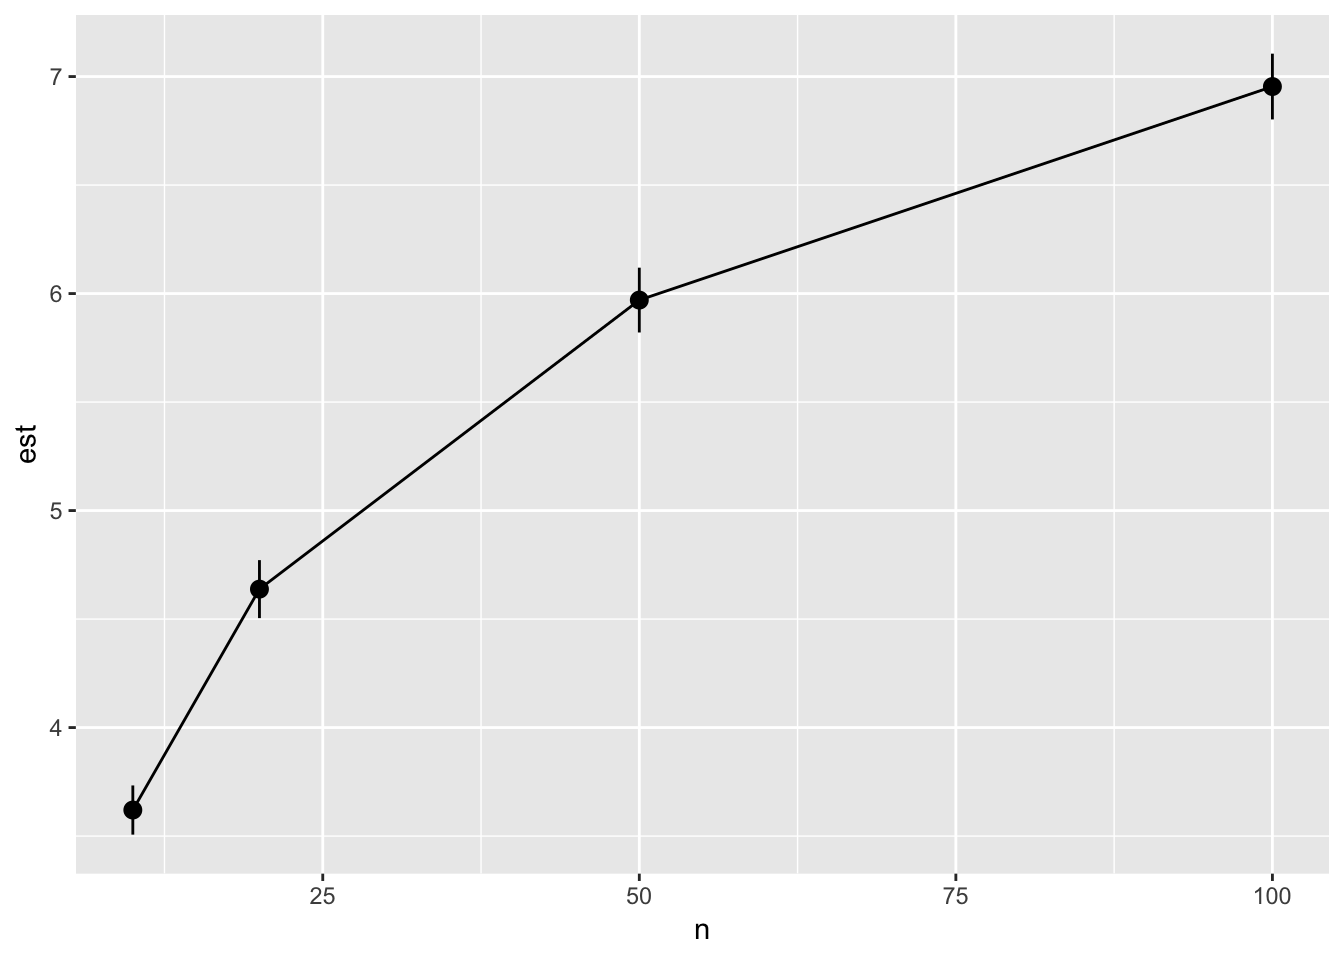
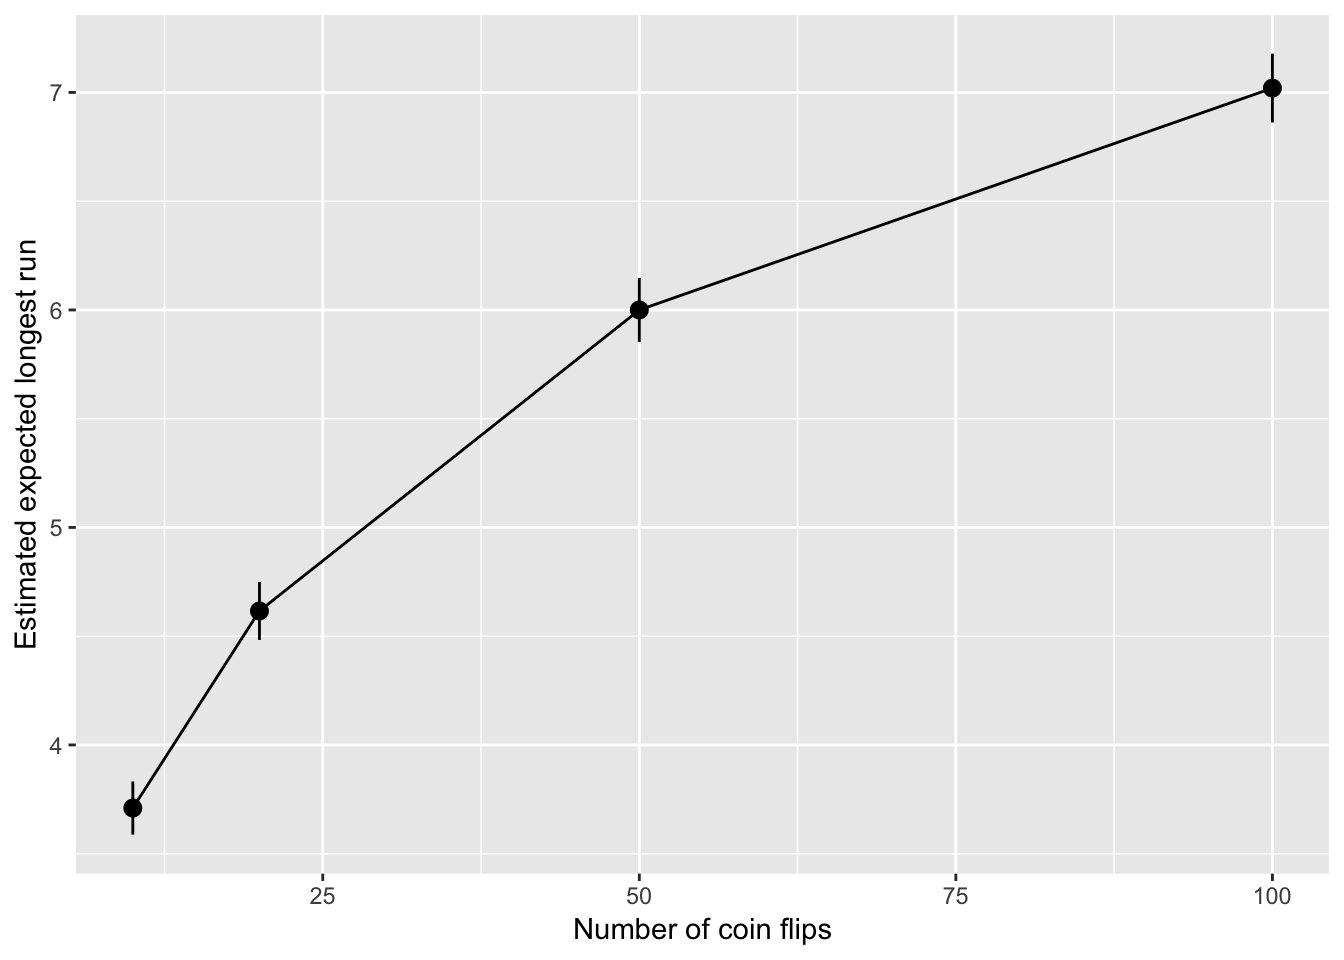
post lecture updates 06

diff --git a/notes/06-more-complicated-sims.html b/notes/06-more-complicated-sims.html
@@ -138,8 +138,9 @@ $(document).ready(function () {
 <li><a href="#our-old-friend-the-coin-toss-sequence">Our old friend the coin toss sequence</a></li>
 <li><a href="#some-variations">Some variations</a></li>
 <li><a href="#how-does-the-expected-length-of-the-longest-run-vary-with-the-number-of-coinflips-n">How does the expected length of the longest run vary with the number of coinflips, <span class="math inline">\(n\)</span>?</a></li>
+<li><a href="#setup">Setup</a></li>
 <li><a href="#one-approach">One approach</a></li>
-<li><a href="#an-aside-on-map">An aside on map()</a></li>
+<li><a href="#an-aside-on-map-back-at-903">An aside on map() back at 9:03</a></li>
 </ul></li>
 <li><a href="#key-ideas">Key ideas</a><ul>
 <li><a href="#storing-a-simulation-in-a-data-frame">Storing a simulation in a data frame</a></li>
@@ -150,6 +151,7 @@ $(document).ready(function () {
 <li><a href="#when-you-need-to-iterate-over-more-than-one-thing-map2-and-pmap">When you need to iterate over more than one thing <code>map2()</code> and <code>pmap()</code></a></li>
 <li><a href="#in-our-situation">In our situation</a></li>
 <li><a href="#more-complicated-simulations">More complicated simulations…</a></li>
+<li><a href="#next-time">Next time</a></li>
 </ul></li>
 </ul>
 </div>
@@ -174,8 +176,9 @@ find_int(n = 1000, values, probs) %&gt;%
   table()</code></pre>
 <p>Ross’s suggestion for efficiency is to order by decreasing probability first, e.g.</p>
 <pre class="r"><code>ind_order &lt;- order(probs, decreasing = TRUE)
-values_ordered &lt;- values[ind_order]
-probs_ordered &lt;- probs[ind_order]
+(values_ordered &lt;- values[ind_order])
+(probs_ordered &lt;- probs[ind_order])
+
 find_int(n = 1000, values_ordered, probs_ordered) %&gt;% 
   table()</code></pre>
 <p>Now compare timing:</p>
@@ -268,6 +271,11 @@ timing_find_int &lt;- press(
 <p>Decompose programs into functions (2b)</p>
 </blockquote>
 <p><strong>What’s the difference between a program and a function?</strong></p>
+<ul>
+<li>programs are many functions</li>
+<li>program is complex task -&gt; e.g. simulation study</li>
+<li>program might have mutliple files, function is in a single file.</li>
+</ul>
 <p>Rmarkdown often lets us blend the line between program and the documentation of the program. This is good, it encourages us to document as we go.</p>
 <p>Sometimes analyses will get complicated enough that a single RMarkdown document isn’t the best way to keep things organized…more on Thursday.</p>
 </div>
@@ -288,10 +296,21 @@ timing_find_int &lt;- press(
 </div>
 <div id="how-does-the-expected-length-of-the-longest-run-vary-with-the-number-of-coinflips-n" class="section level2">
 <h2>How does the expected length of the longest run vary with the number of coinflips, <span class="math inline">\(n\)</span>?</h2>
+<p><strong>Your Turn</strong> What should our final data look like to construct this plot?</p>
 <div class="figure">
 <img src="06-more-complicated-sims_files/flips-vs-longest-run.png" />
 
 </div>
+<p>What we want is a 4 row data frame something like this:</p>
+<pre><code>n       est     sd      
+10      ...     ...
+20      ...     ...
+50      ...     ...
+100     ...     ...</code></pre>
+<p>New to ggplot, the best place to start is <a href="http://r4ds.had.co.nz/data-visualisation.html">Visualization in R4DS</a></p>
+</div>
+<div id="setup" class="section level2">
+<h2>Setup</h2>
 <p>A useful break-down of our previous process into a few functions:</p>
 <pre class="r"><code>sim_coin_tosses &lt;- function(n_sims, n, prob){
   # Simulates n_sims sequences of n coin tosses
@@ -311,10 +330,10 @@ sim_run_lengths &lt;- function(n_sims, n, prob = 0.5){
   # of coin toss sequences of  n flips, where each flip
   # has prob p of being heads.
   sim_coin_tosses(n_sims, n, prob) %&gt;% 
-    map_dbl(max_run_length)
+    map_dbl(~ max_run_length(.))
 }</code></pre>
 <p><strong>Your turn</strong> What should the output be?</p>
-<pre class="r"><code>sim_run_lengths(n_sims = 5, n = 10, prob = 1)</code></pre>
+<pre class="r"><code>sim_run_lengths(n_sims = 10, n = 4, prob = 1)</code></pre>
 <p>Now, <code>n</code> the number of flips is an argument to our function.</p>
 </div>
 <div id="one-approach" class="section level2">
@@ -326,24 +345,32 @@ sim_run_lengths &lt;- function(n_sims, n, prob = 0.5){
 <ol style="list-style-type: decimal">
 <li><p>Simulate the longest runs for each <span class="math inline">\(n\)</span>:</p>
 <pre class="r"><code>lengths_for_each_n &lt;- map(ns, 
-  ~ sim_run_lengths(n_sims = 500, n = .x))</code></pre></li>
+  ~ sim_run_lengths(n_sims = 500, n = .))</code></pre></li>
 <li><p>Find the mean of each set of longest runs:</p>
-<pre class="r"><code>map_dbl(lengths_for_each_n, ~ mean(.x))</code></pre></li>
+<pre class="r"><code>map_dbl(lengths_for_each_n, ~ mean(.))</code></pre></li>
 </ol>
 </div>
-<div id="an-aside-on-map" class="section level2">
-<h2>An aside on map()</h2>
-<p>If the second argument takes the pattern <code>~ fun(x)</code>, you can just supply <code>fun</code> without using the formula notation:</p>
-<pre class="r"><code>map_dbl(lengths_for_each_n, ~ mean(.x)) 
+<div id="an-aside-on-map-back-at-903" class="section level2">
+<h2>An aside on map() back at 9:03</h2>
+<p>If the second argument takes the pattern <code>~ fun(.)</code>, you can just supply <code>fun</code> without using the formula notation:</p>
+<pre class="r"><code>map_dbl(lengths_for_each_n, ~ mean(.)) 
 # is the same as
 map_dbl(lengths_for_each_n, mean)</code></pre>
-<p>You can supply addtional arguments to <code>map()</code> which will be passed on to the function in the second argument:</p>
+<p>You can supply addtional arguments to <code>map()</code> which will be passed on to the function in the second argument. For example, pass on argument to <code>mean()</code>:</p>
+<pre class="r"><code>map_dbl(lengths_for_each_n, mean, na.rm = TRUE)</code></pre>
+<p>Or in our example:</p>
 <pre class="r"><code>lengths_for_each_n &lt;- map(ns, 
   ~ sim_run_lengths(n_sims = 500, n = .x))
 # is the same as
 lengths_for_each_n &lt;- map(ns, 
   sim_run_lengths, 
   n_sims = 500)</code></pre>
+<p>Student question: Can we do more than one thing to an element? Yes, but you end up with more complicated data structures:</p>
+<pre class="r"><code>map(lengths_for_each_n,
+  ~ list(mean(.), sd(.)))</code></pre>
+<p>I’d reccomend just doing it twice</p>
+<pre class="r"><code>map(lengths_for_each_n, mean)
+map(lengths_for_each_n, sd)</code></pre>
 </div>
 </div>
 <div id="key-ideas" class="section level1">
@@ -389,9 +416,10 @@ sims</code></pre>
       ymax = est + 1.96*sd/sqrt(n_sims))) +
     geom_line() +
     labs(x = &quot;Number of coin flips&quot;, y = &quot;Estimated expected longest run&quot;)</code></pre>
-<p><img src="06-more-complicated-sims_files/figure-html/unnamed-chunk-17-1.png" width="672" /></p>
+<p><img src="06-more-complicated-sims_files/figure-html/unnamed-chunk-20-1.png" width="672" /></p>
 <p>Everything we need is in one object, easy to save for later:</p>
 <pre class="r"><code>write_rds(sims, &quot;max-run-length-by-n-simulations.rds&quot;)</code></pre>
+<p><code>write_rds()</code> is a function in readr.</p>
 </div>
 <div id="build-it-up-as-we-go" class="section level2">
 <h2>Build it up as we go</h2>
@@ -400,28 +428,29 @@ sims</code></pre>
   n = ns
 )</code></pre>
 <p>Also forces you to think about the parameters of the simulation (i.e. what should vary?)</p>
-<p>Now our operations happen within the data frame, <code>dplyr::mutate()</code> adds new columns, here one generated by a <code>map()</code> over the <code>ns</code> column:</p>
+<p>Now our operations happen within the data frame, <code>dplyr::mutate()</code> adds new columns, here one generated by a <code>map()</code> over the <code>n</code> column:</p>
 <pre class="r"><code>sims_with_lengths &lt;- 
   sims %&gt;% 
-    mutate(run_lengths = map(ns, sim_run_lengths, 
+    mutate(run_lengths = map(n, sim_run_lengths, 
       n_sims = 500))</code></pre>
 <p>Calls to <code>map_dbl()</code> or <code>map_int()</code> etc, get us columns of numbers:</p>
 <pre class="r"><code>sims_with_stats &lt;- 
   sims_with_lengths %&gt;% 
     mutate(
-      mean_longest_run = map_dbl(lengths_for_each_n, mean),
-      sd_longest_run = map_dbl(lengths_for_each_n, sd))
+      mean_longest_run = map_dbl(run_lengths, mean),
+      sd_longest_run = map_dbl(run_lengths, sd))
 
 sims_with_stats</code></pre>
 </div>
 </div>
 <div id="iterating-over-more-than-one-object" class="section level1">
 <h1>Iterating over more than one object</h1>
+<p><strong>Pick up here Thursday</strong></p>
 <pre class="r"><code>ns
 (ps &lt;- seq(0.1, 0.9, by = 0.2))</code></pre>
 <p>Now what is the expected length of the longest run for every combination of <span class="math inline">\(n\)</span> and <span class="math inline">\(p\)</span>?</p>
-<pre class="r"><code>all_ns &lt;- rep(ns, each = length(ps))
-all_ps &lt;- rep(ps, times = length(ns))</code></pre>
+<pre class="r"><code>(all_ns &lt;- rep(ns, each = length(ps)))
+(all_ps &lt;- rep(ps, times = length(ns)))</code></pre>
 <div id="when-you-need-to-iterate-over-more-than-one-thing-map2-and-pmap" class="section level2">
 <h2>When you need to iterate over more than one thing <code>map2()</code> and <code>pmap()</code></h2>
 <p>Recall, this translates to “for each element of <code>.x</code>, do <code>.f</code>”:</p>
@@ -460,7 +489,7 @@ runs &lt;- cross_df(simulation_params)</code></pre>
       ymin = mean_max_length - 1.96*sd_max_length/sqrt(n_sims),
       ymax = mean_max_length + 1.96*sd_max_length/sqrt(n_sims))) +
     geom_line() </code></pre>
-<p><img src="06-more-complicated-sims_files/figure-html/unnamed-chunk-28-1.png" width="672" /></p>
+<p><img src="06-more-complicated-sims_files/figure-html/unnamed-chunk-31-1.png" width="672" /></p>
 </div>
 <div id="more-complicated-simulations" class="section level2">
 <h2>More complicated simulations…</h2>
@@ -489,7 +518,11 @@ runs_big &lt;- cross_df(simulation_params_big)</code></pre>
       ymax = mean_max_length + 1.96*sd_max_length/sqrt(n_sims))) +
     geom_line()  +
   facet_wrap(~ n_sims)</code></pre>
-<p><img src="06-more-complicated-sims_files/figure-html/unnamed-chunk-31-1.png" width="672" /></p>
+<p><img src="06-more-complicated-sims_files/figure-html/unnamed-chunk-34-1.png" width="672" /></p>
+</div>
+<div id="next-time" class="section level2">
+<h2>Next time</h2>
+<p>Project organization, you will work in RStudio Cloud, be prepared.</p>
 </div>
 </div>
 
